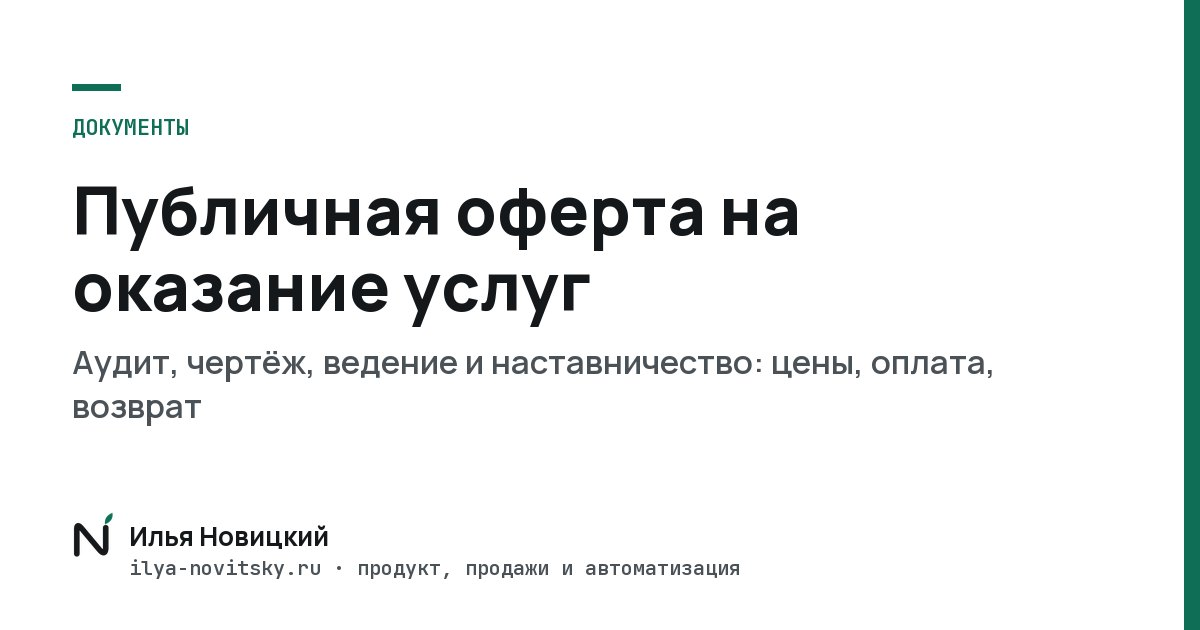
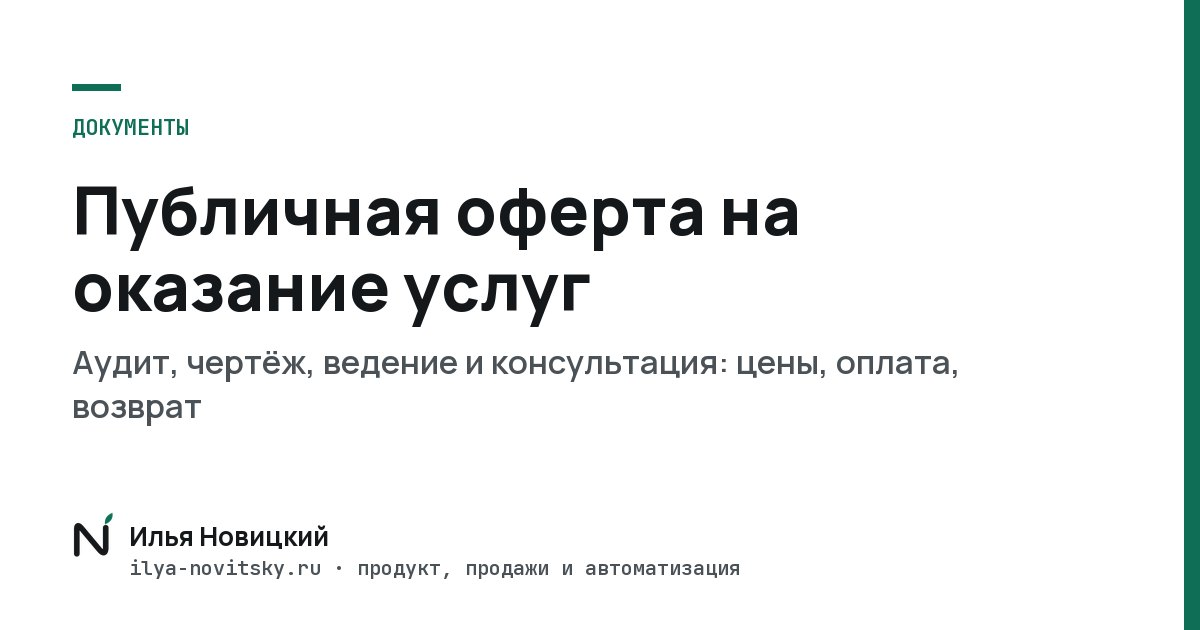
Оферта и политика: консультация вместо наставничества (#135)
* Черновик оферты: консультация «Своя AI-среда» вместо наставничества (на проверке у юриста)

* Оферта и политика 23.10: консультация «Своя AI-среда» вместо наставничества (проверено чатом «Юрист»): неявка и новая дата, запись только с устного согласия и удаление за 30 дней, Яндекс Телемост вместо Zoom, обход ограничений не делаем

---------

Changed region(s): [[0.4008, 0.5429, 0.8325, 0.6032]]

diff --git a/content/pages/common.ts b/content/pages/common.ts
@@ -90,9 +90,9 @@ export const common = typo({
 
 	legal: {
 		crumb: "Документы",
-		edition: "Редакция от 16.10.2026.",
+		edition: "Редакция от 23.10.2026.",
 		docs: [
-			{ slug: "offer", title: "Публичная оферта на оказание услуг", description: "Условия оказания услуг Ильи Новицкого: аудит и план действий, чертёж системы и ведение. Цены, порядок оплаты, возврат и ответственность." },
+			{ slug: "offer", title: "Публичная оферта на оказание услуг", description: "Условия оказания услуг Ильи Новицкого: аудит и план действий, чертёж системы, ведение и консультация «Своя AI-среда». Цены, порядок оплаты, возврат и ответственность." },
 			{ slug: "privacy", title: "Политика обработки персональных данных", description: "Какие данные собирает сайт ilya-novitsky.ru, зачем, где они хранятся, сколько и как их защищают. Права посетителя и контакты для запросов." },
 			{ slug: "consent", title: "Согласие на обработку персональных данных", description: "Согласие посетителя сайта ilya-novitsky.ru на обработку данных для статистики посещений: какие данные, цель, срок и как отозвать." },
 		],

diff --git a/content/pages/sreda.ts b/content/pages/sreda.ts
@@ -83,7 +83,7 @@ export const sreda = typo({
 			{ b: "Рекомендации", t: "Безопасность, хранилище, модели и с чего начать. Показываю на примере своей среды." },
 			{ b: "Что дальше", t: "Обсуждаем следующий шаг, если он нужен.", tag: "инструкция в тот же день" },
 		],
-		terms: ["оплата по ссылке до созвона", "Telegram или Zoom", "нужен Mac"],
+		terms: ["оплата по ссылке до созвона", "Telegram или Телемост", "нужен Mac"],
 	},
 	more: {
 		num: "04",

diff --git a/content/legal/offer.md b/content/legal/offer.md
@@ -1,6 +1,6 @@
 # Публичная оферта на оказание услуг
 
-Редакция от 16 октября 2026 года.
+Редакция от 23 октября 2026 года.
 
 ## 1. Общие положения
 
@@ -22,9 +22,9 @@
 
 2.4. **Ведение** — помесячная работа Исполнителя по развитию продукта и системы продаж Заказчика на частичной занятости: Исполнитель сам определяет, какие работы выполнять для целей, согласованных на месяц, в пределах согласованного объёма роли.
 
-2.5. **Наставничество** — помесячное сопровождение Заказчика, который сам создаёт свой продукт: встречи, ответы на вопросы, инструкции по шагам, проверка этапов.
+2.5. **Консультация «Своя AI-среда»** (далее — Консультация) — разовая онлайн-встреча, на которой Исполнитель разбирает, как Заказчик работает с системами искусственного интеллекта, и даёт рекомендации, как организовать собственную рабочую среду: хранение файлов, роли, модели, безопасность и порядок первых шагов.
 
-2.6. **Этап** — оплачиваемая часть работы: Аудит, чертёж системы, один месяц ведения или один месяц наставничества.
+2.6. **Этап** — оплачиваемая часть работы: Аудит, чертёж системы, один месяц ведения или Консультация.
 
 2.7. **Канал связи** — мессенджер Telegram (@Ilya_novator), мессенджер MAX (+7 965 872-45-68) и электронная почта ilya.novitskii@yandex.ru.
 
@@ -37,16 +37,17 @@
 - **Аудит и план действий** — разбор одной задачи за 3–4 рабочих дня с момента получения от Заказчика необходимых ответов. Результат — письменный разбор и рекомендуемый следующий шаг.
 - **Чертёж системы** — 2–3 недели. Результат — документ (и прототип, если речь о продукте). Объём согласуется до выставления счёта.
 - **Ведение** — по целям на месяц, которые Стороны согласуют в начале каждого месяца (на основе чертежа, если он был): сайт, контент, путь клиента до оплаты, продукт или сервис, автоматизация, аналитика. Объём роли и формат связи указываются в счёте или в Канале связи до оплаты; по умолчанию — один плановый созвон в неделю и переписка в рабочие дни. Каждую неделю Заказчик получает план и отчёт. Работы сверх объёма роли выполняются после согласования расширения роли и её стоимости.
-- **Наставничество** — встреча один раз в неделю продолжительностью 60–90 минут, ответы в Telegram в рабочие дни в течение рабочего дня, письменные инструкции на каждый шаг, проверка результата каждого этапа.
+- **Консультация «Своя AI-среда»** — одна онлайн-встреча продолжительностью до 60 минут в Telegram или Яндекс Телемосте в согласованное время. В день встречи Исполнитель направляет Заказчику письменную инструкцию (файл PDF) с шагами и ссылками на сервисы. Для применения рекомендаций нужен компьютер Mac. Запись встречи ведётся только с устного согласия Заказчика, которое он даёт в начале записи; запись используется только для расшифровки и подготовки инструкции.
 
 3.3. В услуги не входят:
 
 - закупка рекламы и ведение рекламных кабинетов (Исполнитель анализирует трафик, но не закупает его);
 - найм, обучение и контроль сотрудников и подрядчиков Заказчика;
 - оплата сторонних сервисов, подписок, хостинга, доменов и т. п. — эти расходы несёт Заказчик, сумму Исполнитель называет заранее;
-- в наставничестве — выполнение работы за Заказчика, включая техническую часть.
+- в Консультации — настройка среды и выполнение работ за Заказчика, а также сопровождение и ответы на вопросы после встречи;
+- помощь в обходе ограничений сторонних сервисов (для всех услуг).
 
-3.4. Наставничество — консультационная услуга. Оно не является образовательной программой, по его итогам документ об образовании или квалификации не выдаётся.
+3.4. Консультация — консультационная услуга. Она не является образовательной программой, по её итогам документ об образовании или квалификации не выдаётся.
 
 3.5. Исполнитель не гарантирует коммерческий результат: продажи, выручку, число клиентов. Он отвечает за качество и сроки своей работы, а результат бизнеса зависит также от рынка, продукта и действий Заказчика.
 
@@ -57,9 +58,9 @@
 - Аудит и план действий — 40 000 ₽;
 - чертёж системы — от 120 000 ₽, точная сумма зависит от объёма и указывается в счёте;
 - ведение — от 150 000 ₽ в месяц, точная сумма зависит от объёма роли и указывается в счёте; минимальный срок — 3 месяца;
-- наставничество — 80 000 ₽ в месяц.
+- Консультация «Своя AI-среда» — 10 000 ₽.
 
-4.2. Оплата — 100% вперёд за каждый этап. Месяц ведения и наставничества оплачивается до его начала.
+4.2. Оплата — 100% вперёд за каждый этап. Месяц ведения оплачивается до его начала, Консультация — до встречи.
 
 4.3. Оплата производится по счёту или по ссылке на платёжную страницу сервиса Продамус, которую Исполнитель направляет в Канале связи. На Сайте оплата не принимается.
 
@@ -75,13 +76,13 @@
 
 5.3. Сроки этапа начинают течь, когда Заказчик предоставил информацию и доступы, необходимые для работы. Задержка с его стороны сдвигает сроки на то же время.
 
-5.4. Результат этапа передаётся Заказчику письменно. Если в течение 3 рабочих дней Заказчик не прислал мотивированных замечаний, этап считается принятым. Обоснованные замечания в рамках согласованного объёма Исполнитель устраняет без доплаты. Для Заказчика, который заказывает услуги для личных нужд, этот порядок не ограничивает его права по Закону «О защите прав потребителей».
+5.4. Результат этапа передаётся Заказчику письменно. Консультация считается оказанной после проведения встречи и направления инструкции. Перенести встречу Заказчик может, предупредив Исполнителя в Канале связи не позднее чем за 24 часа. Если Заказчик не подключился к встрече в течение 15 минут от согласованного времени и не предупредил заранее, встреча считается несостоявшейся по причине, зависящей от Заказчика. Исполнитель предлагает одну новую дату в течение 30 дней без доплаты. Если в течение 3 рабочих дней Заказчик не прислал мотивированных замечаний, этап считается принятым. Обоснованные замечания в рамках согласованного объёма Исполнитель устраняет без доплаты. Для Заказчика, который заказывает услуги для личных нужд, этот порядок не ограничивает его права по Закону «О защите прав потребителей».
 
 ## 6. Права и обязанности
 
 6.1. Исполнитель обязан: оказывать услуги качественно и в согласованные сроки; сообщать о рисках и препятствиях; хранить конфиденциальность сведений Заказчика.
 
-6.2. Исполнитель вправе: привлекать для работы программные инструменты, в том числе системы искусственного интеллекта, оставаясь ответственным за результат; перед загрузкой материалов в зарубежные сервисы искусственного интеллекта Исполнитель удаляет из них персональные данные клиентов и сотрудников Заказчика (имена, телефоны, адреса электронной почты); приостановить работу при неоплате очередного этапа; отказаться от проекта в нишах, связанных с азартными играми, «быстрыми деньгами» или нарушением закона.
+6.2. Исполнитель вправе: привлекать для работы программные инструменты, в том числе системы искусственного интеллекта, оставаясь ответственным за результат; перед загрузкой материалов в зарубежные сервисы искусственного интеллекта Исполнитель удаляет из них персональные данные клиентов и сотрудников Заказчика (имена, телефоны, адреса электронной почты); приостановить работу при неоплате очередного этапа; отказаться от проекта в нишах, связанных с азартными играми, «быстрыми деньгами» или нарушением закона, а также от задач по обходу ограничений сторонних сервисов.
 
 6.3. Заказчик обязан: своевременно оплачивать этапы; предоставлять достоверную информацию и доступы; отвечать на вопросы Исполнителя в разумный срок.
 
@@ -103,7 +104,7 @@
 
 8.2. Оплата за полностью оказанный и принятый этап не возвращается.
 
-8.3. Если Заказчик отказывается в ходе оплаченного этапа, Исполнитель возвращает стоимость неоказанной части за вычетом фактически оказанных услуг и понесённых расходов. Для месяца ведения и наставничества неоказанная часть считается пропорционально оставшимся рабочим неделям. Возврат производится в течение 10 рабочих дней на реквизиты, с которых пришла оплата.
+8.3. Если Заказчик отказывается в ходе оплаченного этапа, Исполнитель возвращает стоимость неоказанной части за вычетом фактически оказанных услуг и понесённых расходов. Для месяца ведения неоказанная часть считается пропорционально оставшимся рабочим неделям. Если Заказчик отказывается от Консультации до начала встречи, а при несостоявшейся встрече по причине, зависящей от Заказчика, — после отказа от новой даты, оплата возвращается полностью за вычетом фактически понесённых Исполнителем расходов, если они были. Возврат производится в течение 10 рабочих дней на реквизиты, с которых пришла оплата.
 
 8.4. Исполнитель вправе отказаться от договора, вернув Заказчику стоимость неоказанной части оплаченного этапа.
 

diff --git a/content/legal/privacy.md b/content/legal/privacy.md
@@ -18,7 +18,8 @@
 |---|---|---|---|
 | Посетители Сайта | Cookie, IP-адрес, сведения о браузере и устройстве, действия на страницах, включая запись сессий (Вебвизор Яндекс Метрики) | Понять, как люди пользуются Сайтом, и улучшать его | Согласие посетителя (баннер на Сайте) |
 | Те, кто написал Оператору | Имя, имя пользователя в MAX или Telegram, телефон, электронная почта, содержание переписки о задаче | Ответить на обращение, обсудить задачу, договориться о работе | Согласие; действия, предшествующие заключению договора |
-| Заказчики и ученики | Перечисленное выше, а также ИНН (для ИП и компаний) и реквизиты оплаты | Заключить и исполнить договор, выдать чек | Исполнение договора; требования налогового законодательства |
+| Заказчики | Перечисленное выше, а также ИНН (для ИП и компаний) и реквизиты оплаты | Заключить и исполнить договор, выдать чек | Исполнение договора; требования налогового законодательства |
+| Заказчики Консультации | Запись встречи (голос, изображение) — только с согласия | Подготовить инструкцию по итогам встречи | Согласие (устно, в начале записи) |
 
 3.1. Специальные категории данных (здоровье, убеждения и т. п.) и биометрию Оператор не собирает.
 
@@ -39,6 +40,7 @@
 - **Яндекс Метрика** (ООО «Яндекс», Россия) — статистика посещений;
 - **MAX** (Россия) — переписка с теми, кто написал Оператору сам;
 - **Telegram** — переписка с теми, кто написал Оператору сам. Серверы Telegram находятся за пределами России, поэтому переписка в нём является трансграничной передачей данных (ст. 12 152-ФЗ). Тот, кто пишет Оператору в Telegram, делает это добровольно; альтернативные каналы — MAX и электронная почта; Перед переходом в мессенджер Сайт показывает окно выбора: Telegram или MAX, с указанием, где хранятся данные.
+- **Яндекс Телемост** (ООО «Яндекс», Россия) — видеовстречи;
 - **Продамус** (Россия) — приём оплаты по ссылке на платёжную страницу;
 - **«Мой налог»** (ФНС России) — формирование чеков.
 
@@ -56,7 +58,7 @@
 
 5.2. Переписка и контакты тех, кто не стал заказчиком, — до 1 года с последнего сообщения или до отзыва согласия.
 
-5.3. Данные заказчиков — в течение срока договора и 5 лет после него (сроки исковой давности и налогового учёта).
+5.3. Данные заказчиков — в течение срока договора и 5 лет после него (сроки исковой давности и налогового учёта). Запись встречи Консультации удаляется в течение 30 дней после встречи; расшифровка хранится как переписка.
 
 5.4. По истечении срока или при отзыве согласия данные удаляются в течение 30 дней, если закон не требует хранить их дольше.
 
